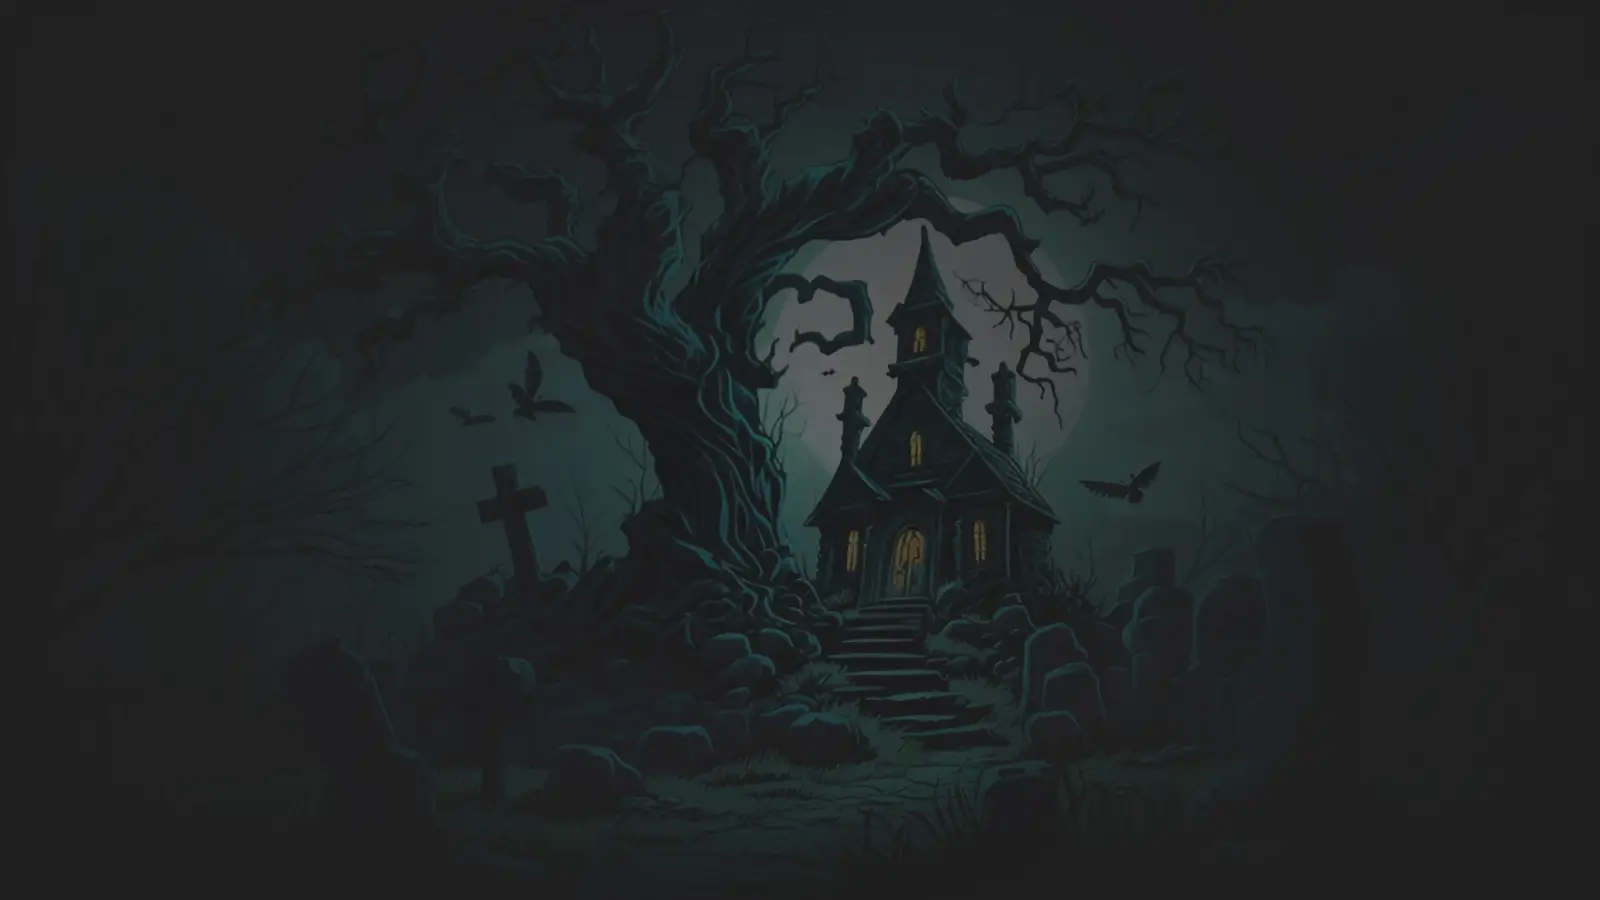
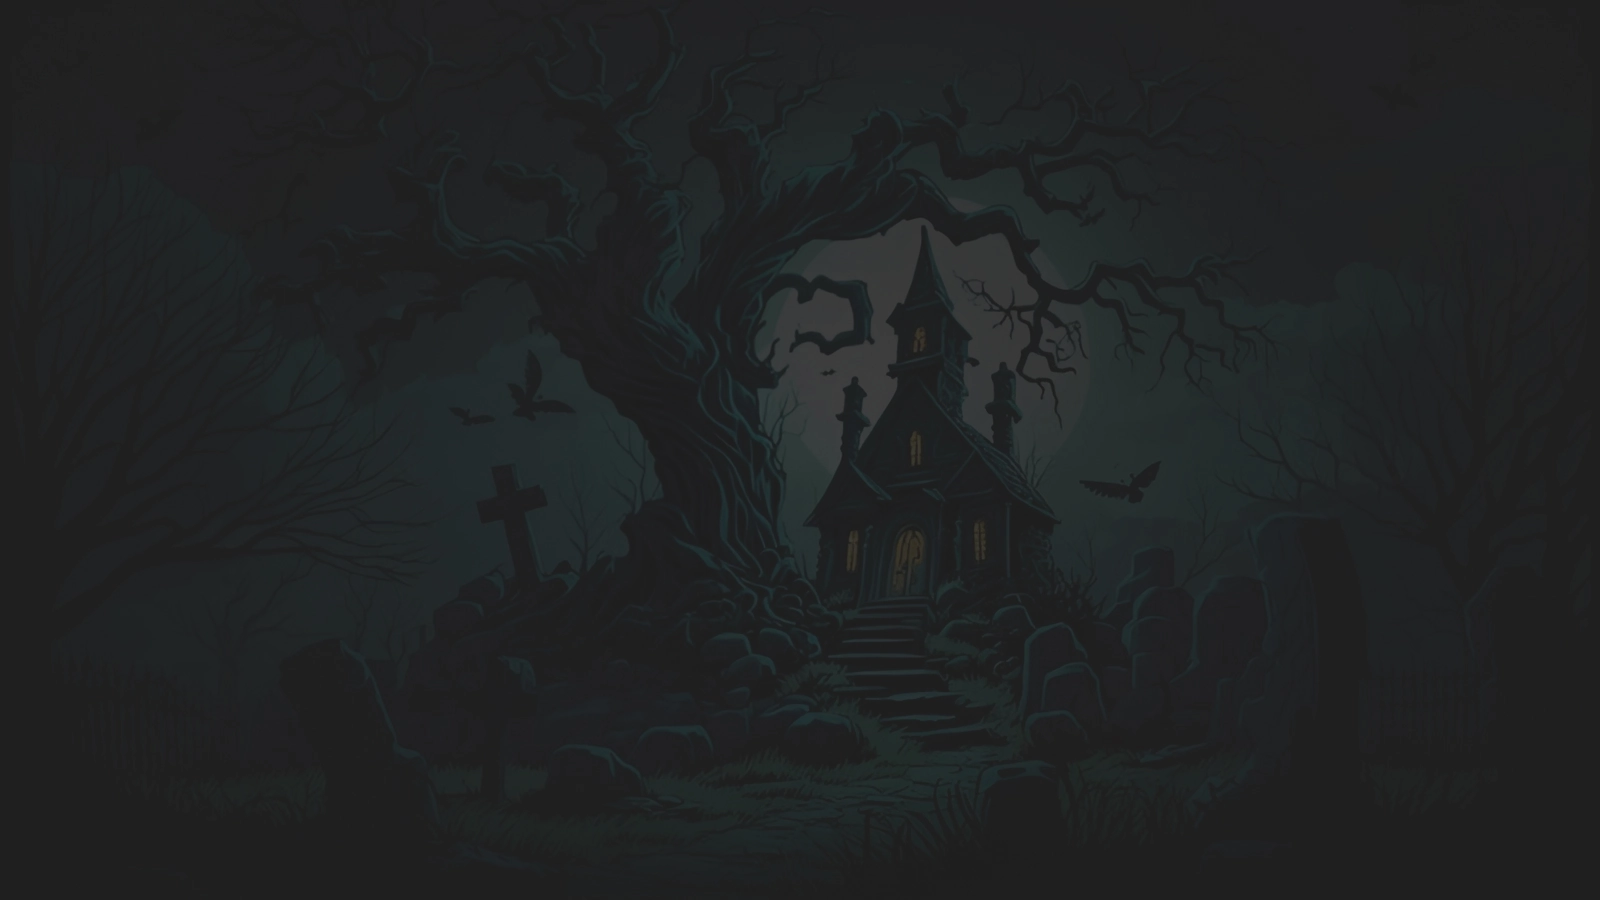
perf: :zap: agrega mejoras de performance

Changed region(s): [[0.4688, 0.2489, 0.625, 0.56]]

diff --git a/src/app/app.component.ts b/src/app/app.component.ts
@@ -1,30 +1,12 @@
-import { Component, CUSTOM_ELEMENTS_SCHEMA, ElementRef, inject, OnInit, ViewChild } from '@angular/core';
 import { CommonModule } from '@angular/common';
+import { Component, CUSTOM_ELEMENTS_SCHEMA, OnInit } from '@angular/core';
 import { RouterOutlet } from '@angular/router';
 
 import { CloudinaryModule } from '@cloudinary/ng';
-import { Cloudinary, CloudinaryImage, Transformation } from '@cloudinary/url-gen';
-import { auto, crop, fill, scale, thumbnail } from "@cloudinary/url-gen/actions/resize";
-import { FocusOn } from '@cloudinary/url-gen/qualifiers/focusOn';
-import { byRadius } from '@cloudinary/url-gen/actions/roundCorners';
-import { compass, focusOn } from '@cloudinary/url-gen/qualifiers/gravity';
-import { backgroundRemoval, cartoonify, generativeBackgroundReplace, negate, redEye } from '@cloudinary/url-gen/actions/effect';
-import { hue } from '@cloudinary/url-gen/actions/adjust';
-import { byAngle } from '@cloudinary/url-gen/actions/rotate';
-import { source } from '@cloudinary/url-gen/actions/overlay';
-import { image } from '@cloudinary/url-gen/qualifiers/source';
-import { Background, Position } from '@cloudinary/url-gen/qualifiers';
-import { GenerativeBackgroundReplace } from '@cloudinary/url-gen/actions/effect/GenerativeBackgroundReplace';
-import { CloudinaryService } from './shared/services/cloudinary.service';
-import { ImageInfo } from './shared/models/image-info.model';
-import { ConversationService } from './shared/services/conversation.service';
-import { welcomeDialog } from './shared/dialogs/welcome.dialog';
+import { initFlowbite } from 'flowbite';
+import { NgxSpinnerModule } from 'ngx-spinner';
 import { CharacterComponent } from './character/character.component';
 import { ControlsComponent } from './shared/components/controls/controls.component';
-import { initFlowbite } from 'flowbite';
-import { NgxSpinnerModule, NgxSpinnerService } from 'ngx-spinner';
-import { HotToastService } from '@ngneat/hot-toast';
-import { toastConf } from './shared/helpers/toast-conf';
 
 
 @Component({
@@ -37,52 +19,7 @@ import { toastConf } from './shared/helpers/toast-conf';
 })
 
 export class AppComponent implements OnInit {
-  private readonly cloudinaryService: CloudinaryService = inject(CloudinaryService);
-  private readonly conversationService: ConversationService = inject(ConversationService);
-
-  title = 'Angular Quick Start';
-  img!: CloudinaryImage;
-  showImage: boolean = false;
-
   ngOnInit() {
     initFlowbite();
-    // const cld = new Cloudinary({
-    //   cloud: {
-    //     cloudName: 'cloudWilgen'
-    //   }
-    // });
-
-    // this.img = cld.image('haunted_mirror/mzxkoneikabz8v0fut5o');
-    // const copiaImagen = cld.image('haunted_mirror/mzxkoneikabz8v0fut5o')
-    //   .resize(auto().width(300).height(300).gravity(focusOn(FocusOn.face())));;
-    // this.cloudinaryService.obtenerInfoImagen(copiaImagen.addFlag('getinfo').toURL()).subscribe((res) => {
-    //   this.posicionarOjos(res)
-    // });
-
-
-    // .addTransformation(new Transformation().effect(generativeBackgroundReplace().prompt('Transform the background of the image into a sinister fiery hell with burning flames dark smoke molten lava and a  red-orange sky')))
-
-  }
-
-  posicionarOjos(imageInfo: ImageInfo) {
-    this.img
-      .overlay(
-        source(
-          image('haunted_mirror/ojos_tenebrosos')
-            .transformation(new Transformation()
-              .resize(auto().width(50))
-            )
-        )
-          .position(
-            new Position()
-              .gravity(compass("north_west"))
-              .offsetX(imageInfo.landmarks[0][0].r_eye.x)
-              .offsetY(imageInfo.landmarks[0][0].r_eye.y)
-          )
-      )
-      .resize(auto().width(300).height(300).gravity(focusOn(FocusOn.face())));;
-
-
-    this.showImage = true;
   }
 }

diff --git a/src/app/upload-image/upload-image.component.ts b/src/app/upload-image/upload-image.component.ts
@@ -100,7 +100,7 @@ export class UploadImageComponent implements OnInit {
     }
 
     this.controlsService.isTextActive()?
-    this.conversationService.startDialogue(mensajesError[this.tryCount]) : this.toast.info('No se ha podido detectar un rostro en la imagen que has subido, ¡Inténtalo de nuevo!', toastConf);
+    this.conversationService.startDialogue(mensajesError[this.tryCount]) : this.toast.error('No se ha podido detectar un rostro en la imagen que has subido, ¡Inténtalo de nuevo!', toastConf);
     this.tryCount++;
   }
 

diff --git a/src/styles.scss b/src/styles.scss
@@ -26,7 +26,7 @@
 body {
     overflow-x: hidden;
     background-attachment: fixed;
-    background-image: url("/images/bg.jpg");
+    background-image: url("/images/bg.webp");
     background-size: cover;
     background-repeat: no-repeat;
     background-position: center;
